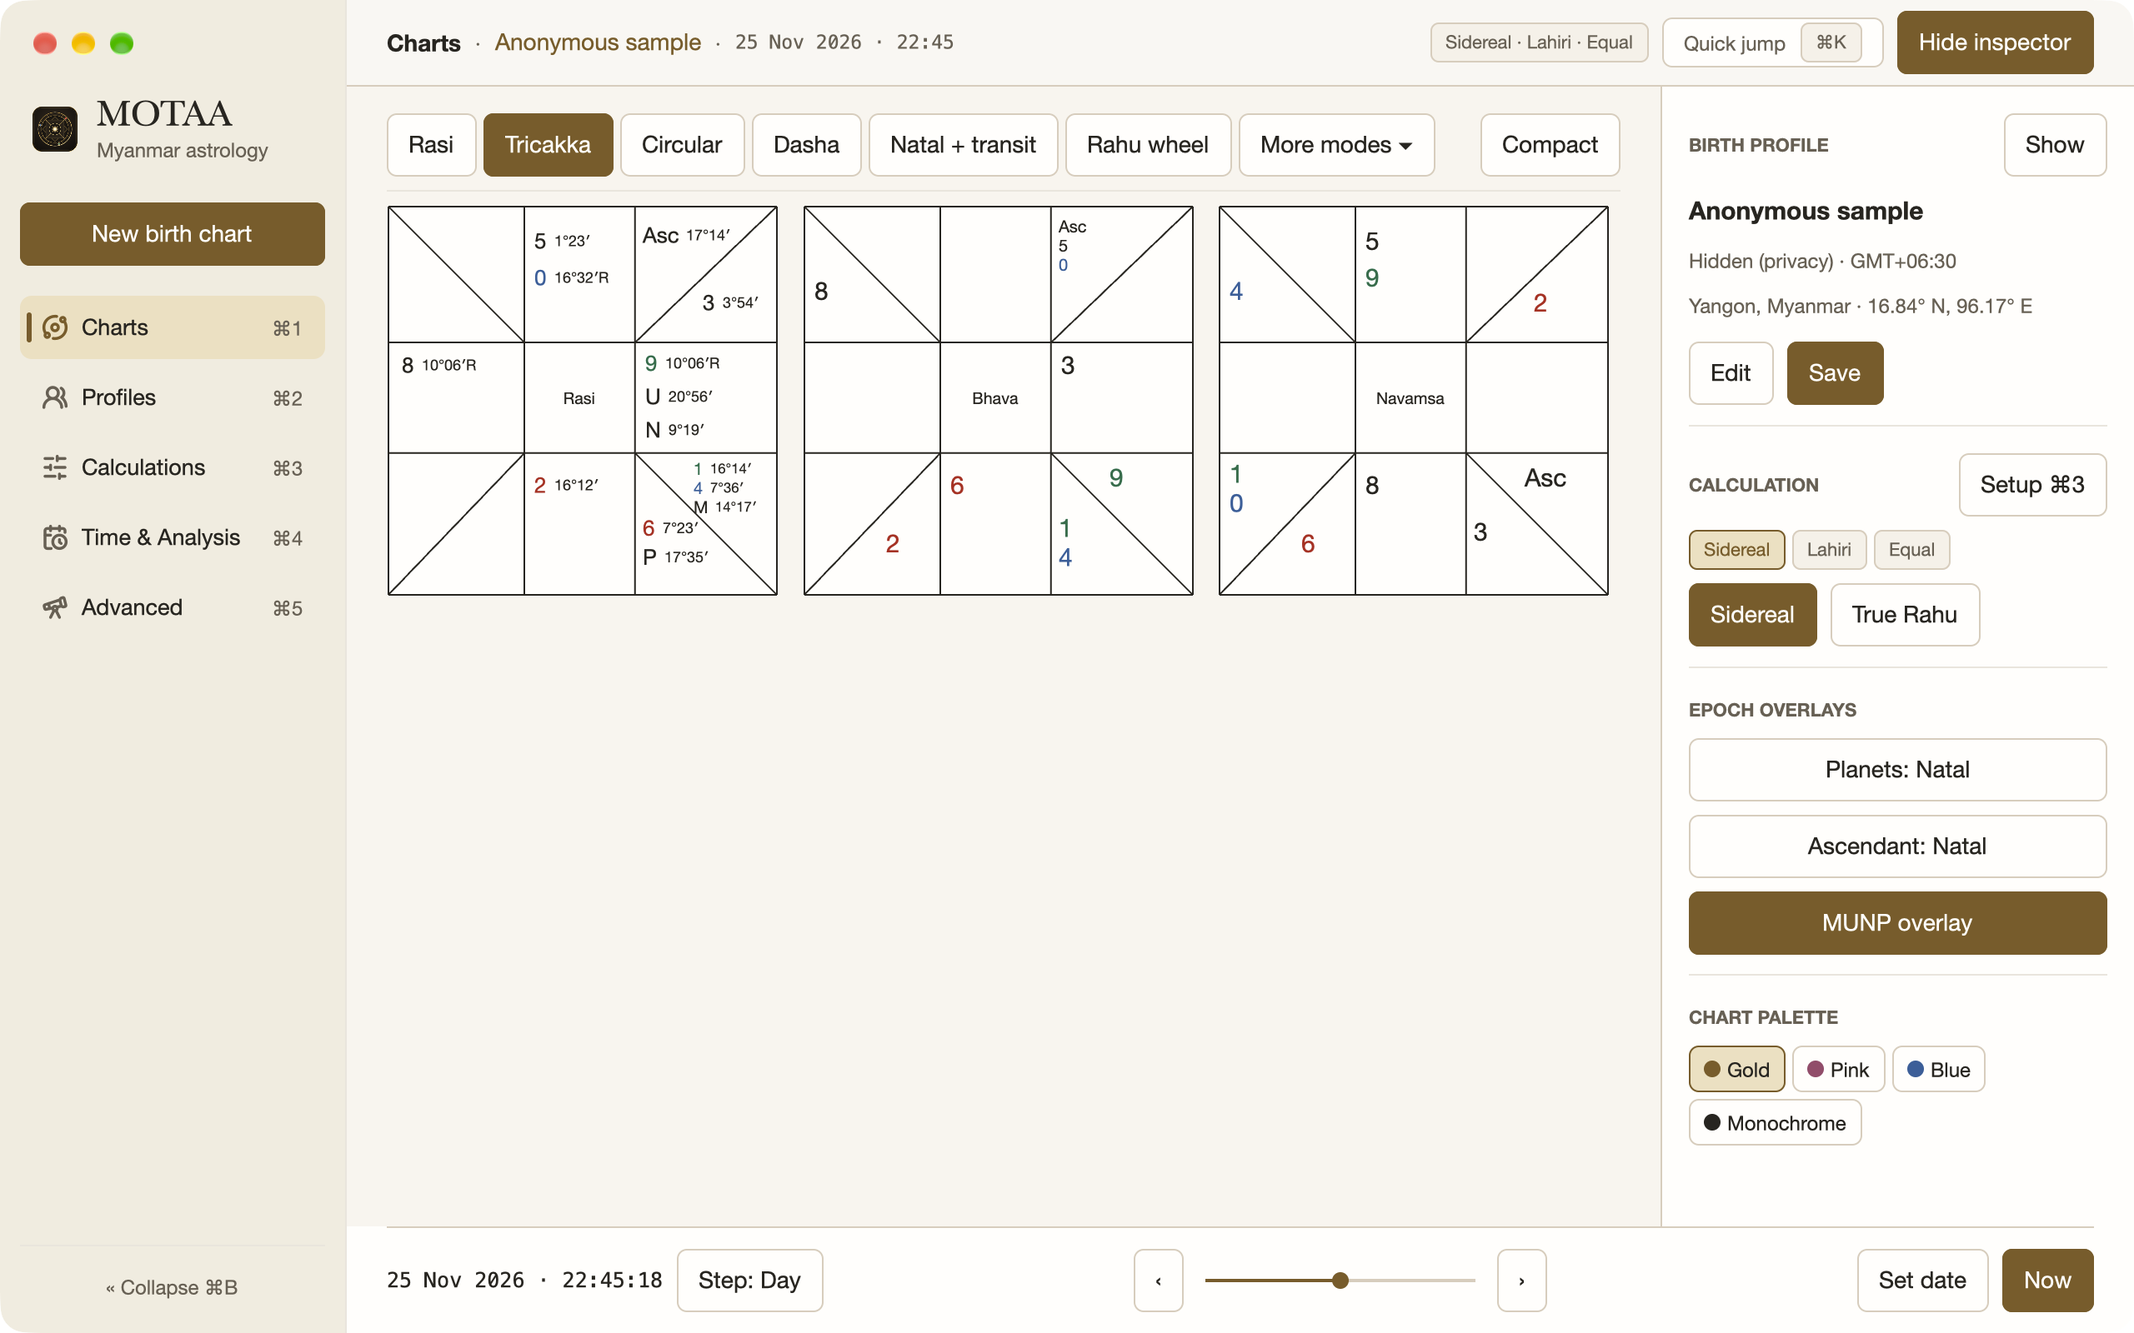
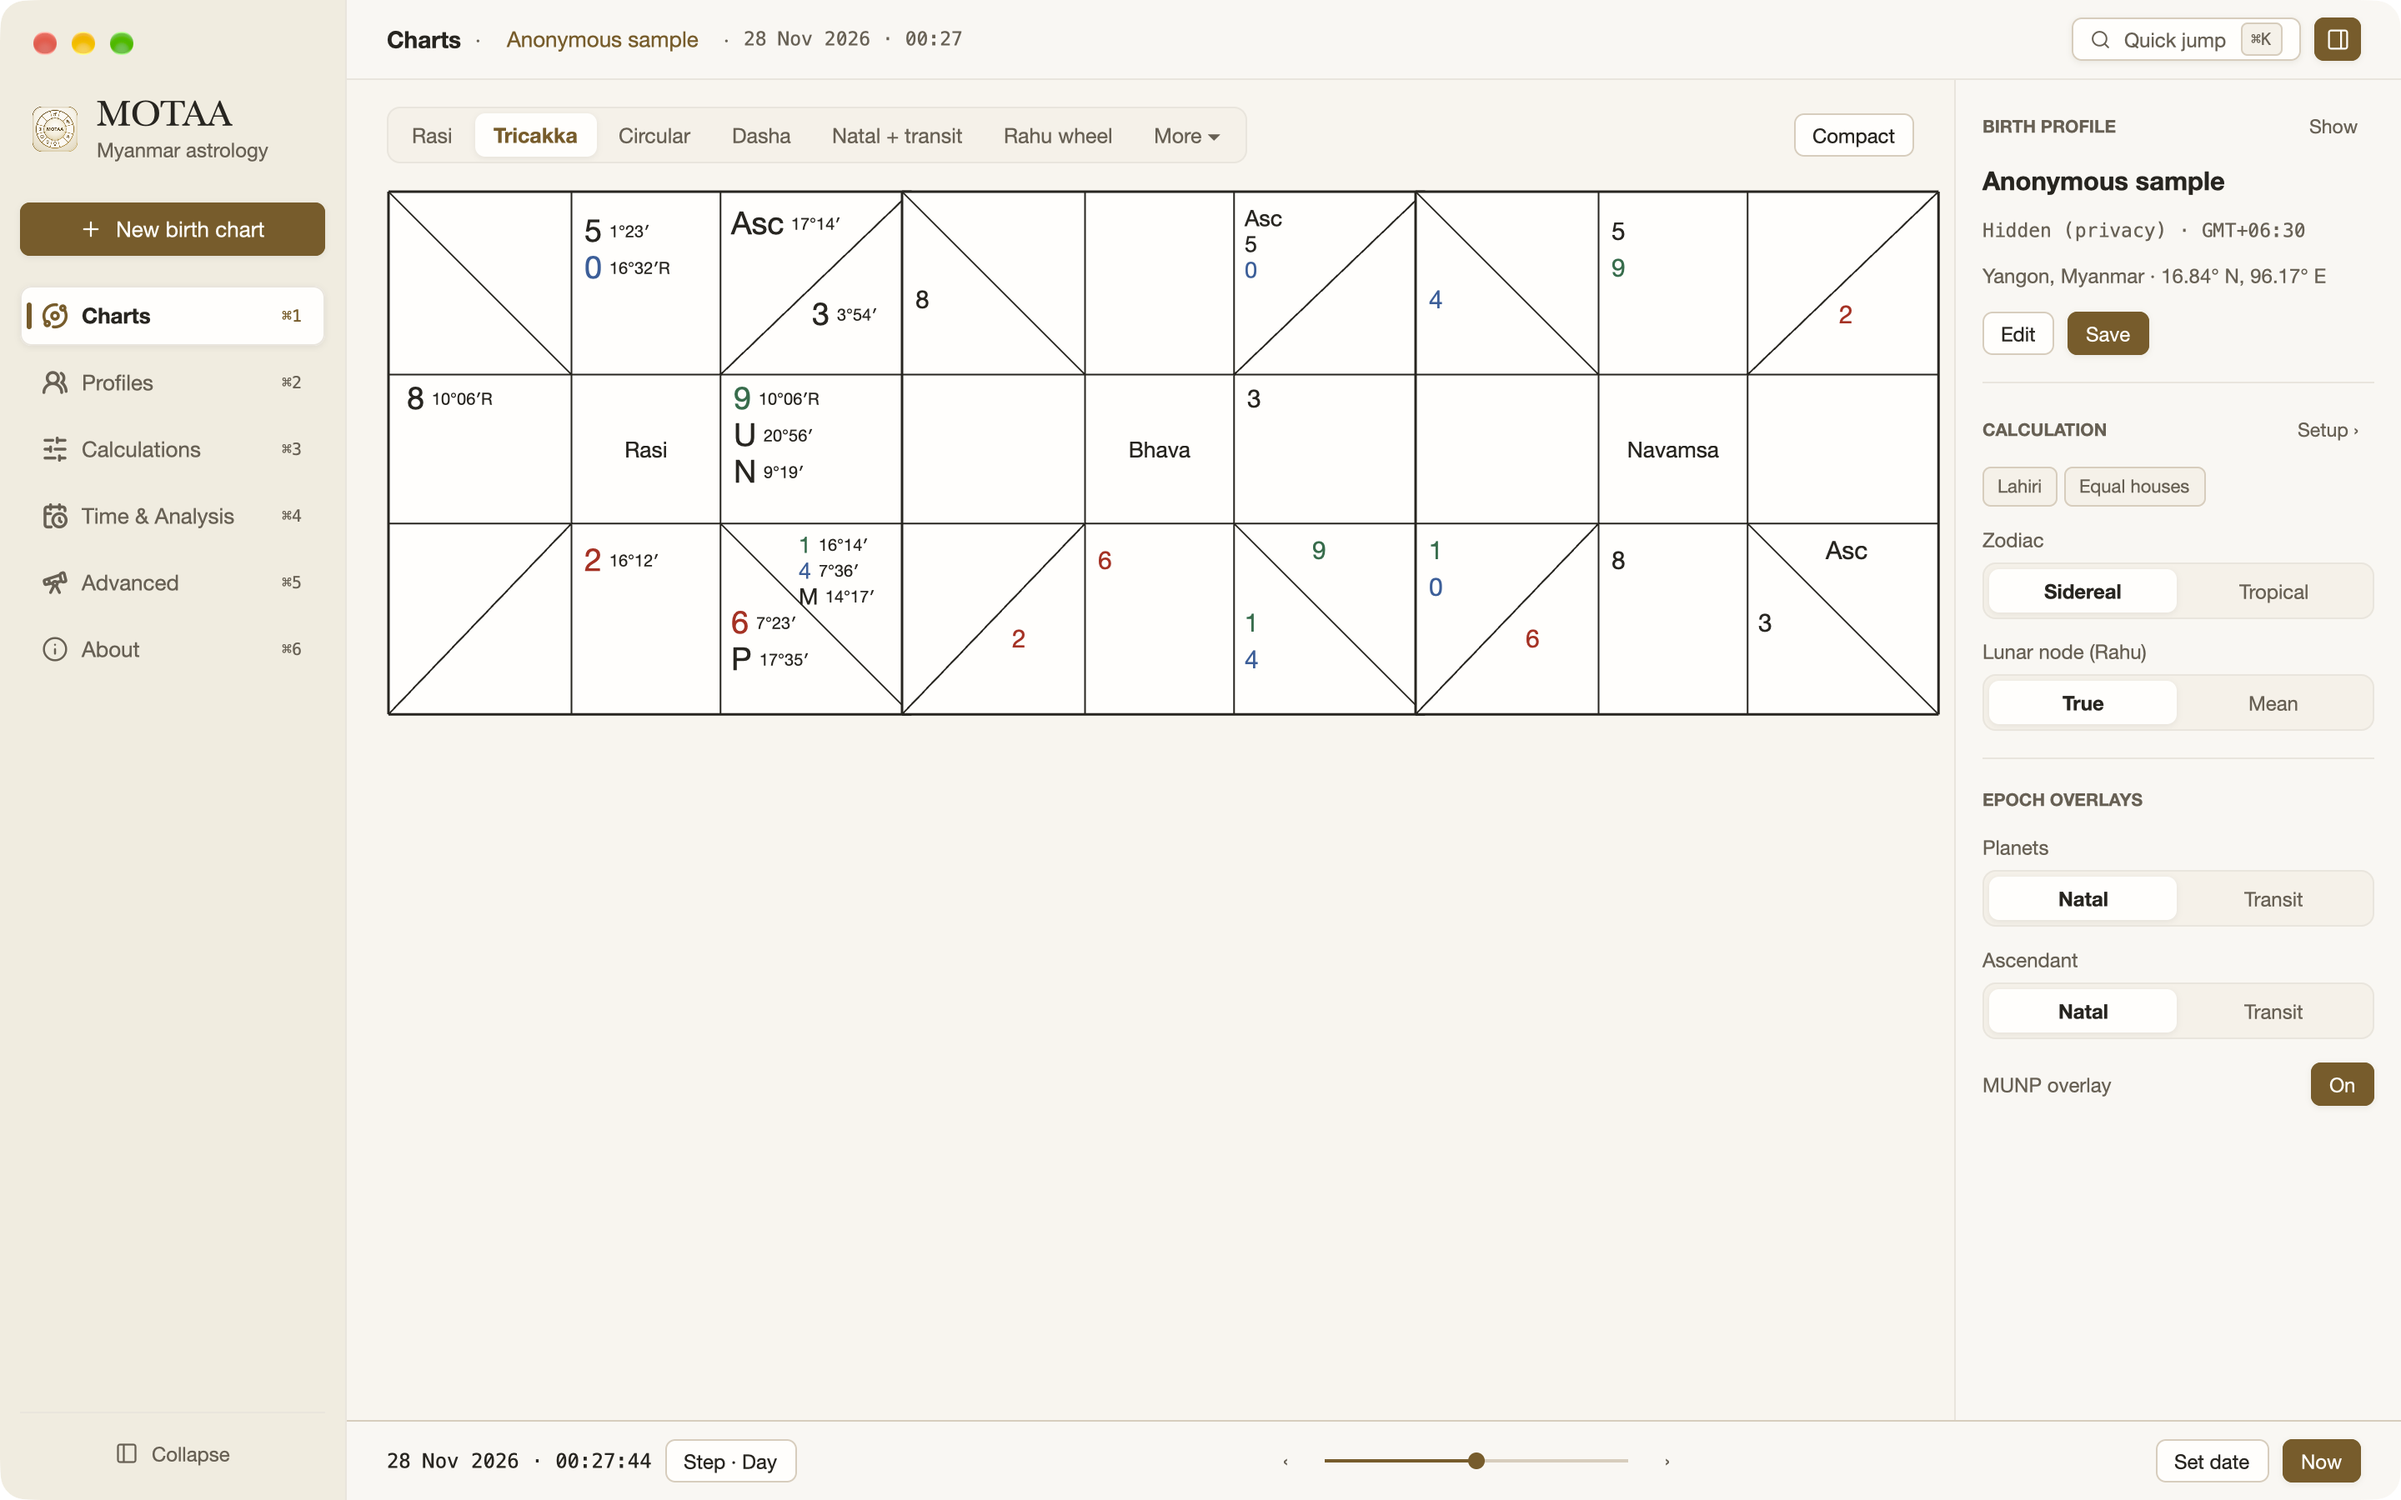
docs(screenshots): refresh app screenshots and add Windows 11 Store screenshots

diff --git a/site/index.html b/site/index.html
@@ -112,6 +112,13 @@
                 data-desc="Sixteen specialized analytical modules including Ashtakavarga, KP subdivisions, Divisional charts, Ephemeris calendar, and Eclipses.">
                 Advanced <span class="kbd">⌘5</span>
               </button>
+              <button type="button" class="workbook-tab" role="tab" aria-selected="false"
+                data-src="assets/07-about.png"
+                data-alt="MOTAA Desktop About and Credits page showing reverse-engineering origin and creator links"
+                data-title="About &amp; Credits"
+                data-desc="Reverse-engineering origin, credits to Numan MOTAA and AstrologerKoPaKhan, and quick-open links.">
+                About <span class="kbd">⌘6</span>
+              </button>
             </div>
             <span class="kbd" title="Open Quick Jump command palette inside MOTAA Desktop">Quick Jump ⌘K</span>
           </div>

diff --git a/src/main.rs b/src/main.rs
@@ -321,6 +321,13 @@ const RAIL_ICONS: [(&str, &[u8]); 6] = [
     ("info", include_bytes!("../assets/rail/info.svg")),
 ];
 
+fn macos_chrome() -> bool {
+    static MACOS_CHROME: OnceLock<bool> = OnceLock::new();
+    *MACOS_CHROME.get_or_init(|| {
+        cfg!(target_os = "macos") && !std::env::args().any(|arg| arg == "--windows-chrome")
+    })
+}
+
 fn app_icon() -> Arc<Image> {
     static ICON: OnceLock<Arc<Image>> = OnceLock::new();
     ICON.get_or_init(|| {
@@ -1396,7 +1403,7 @@ impl Render for DesktopRoot {
             .bg(rgb(RAIL))
             .px(px(if collapsed { 8. } else { 12. }))
             .pb_3()
-            .pt(px(if cfg!(target_os = "macos") { 56. } else { 16. }))
+            .pt(px(if macos_chrome() { 56. } else { 16. }))
             .border_r_1()
             .border_color(rgb(SUBTLE_LINE))
             .child(
@@ -1448,7 +1455,7 @@ impl Render for DesktopRoot {
             .child(div().h(px(10.)))
             .children(Workspace::ALL.into_iter().enumerate().map(|(idx, entry)| {
                 let selected = entry == route;
-                let shortcut_hint = if cfg!(target_os = "macos") {
+                let shortcut_hint = if macos_chrome() {
                     format!("⌘{}", idx + 1)
                 } else {
                     format!("^{}", idx + 1)
@@ -1759,7 +1766,7 @@ impl Render for DesktopRoot {
                                             .hover(|s| s.bg(rgb(SOFT)))
                                             .child(ui_icon("ui/search", 12.5, MUTED))
                                             .child(caption("Quick jump"))
-                                            .child(shortcut_keycap(if cfg!(target_os = "macos") {
+                                            .child(shortcut_keycap(if macos_chrome() {
                                                 "⌘K"
                                             } else {
                                                 "^K"
@@ -2168,22 +2175,19 @@ fn main() {
                 KeyBinding::new(&primary_keybinding("q"), Quit, None),
             ]);
             let window_size = if store_screenshots.is_some() {
-                size(px(1440.), px(900.))
+                if macos_chrome() {
+                    size(px(1440.), px(900.))
+                } else {
+                    size(px(1440.), px(868.))
+                }
             } else {
                 size(px(1280.), px(800.))
             };
             let bounds = Bounds::centered(None, window_size, cx);
-            #[cfg(target_os = "macos")]
             let titlebar = Some(gpui::TitlebarOptions {
                 title: Some("MOTAA Desktop".into()),
-                appears_transparent: true,
-                traffic_light_position: Some(gpui::point(px(20.), px(19.))),
-            });
-            #[cfg(not(target_os = "macos"))]
-            let titlebar = Some(gpui::TitlebarOptions {
-                title: Some("MOTAA Desktop".into()),
-                appears_transparent: false,
-                traffic_light_position: None,
+                appears_transparent: macos_chrome(),
+                traffic_light_position: macos_chrome().then(|| gpui::point(px(20.), px(19.))),
             });
             let window = cx
                 .open_window(

diff --git a/src/harness.rs b/src/harness.rs
@@ -717,6 +717,7 @@ pub(crate) fn run(
                 ("04-time-analysis", Workspace::Time),
                 ("05-profiles", Workspace::Profiles),
                 ("06-advanced-tools", Workspace::Advanced),
+                ("07-about", Workspace::About),
             ];
             for &(slug, route) in workspace_shots {
                 window

diff --git a/packaging/windows/STORE_SUBMISSION.md b/packaging/windows/STORE_SUBMISSION.md
@@ -48,6 +48,9 @@ To build locally on Windows:
 | `04-time-analysis.png` | Independent transit time and location navigator |
 | `05-profiles.png` | Saved birth profiles with backup and import |
 | `06-advanced-tools.png` | Advanced astrological and astronomical tools directory |
+| `07-about.png` | About & Credits page with origin and creator links |
+
+Pre-generated Windows-chrome Store screenshots (`2880×1800` PNG) are also saved locally in `packaging/windows/screenshots/`.
 
 > **Policy 10.1.1.3 Compliance**: Never upload macOS screenshots from `docs/screenshots/` to Microsoft Partner Center. Always upload the Windows-captured screenshots from the `windows-store-submission` CI/CD artifact.
 

diff --git a/README.md b/README.md
@@ -14,6 +14,8 @@ Special thanks to:
 - **Numan MOTAA**: [https://web.facebook.com/numan.motaa](https://web.facebook.com/numan.motaa)
 - **AstrologerKoPaKhan**: [https://web.facebook.com/AstrologerKoPaKhan](https://web.facebook.com/AstrologerKoPaKhan)
 
+![MOTAA Desktop About & Credits](docs/screenshots/07-about.png)
+
 ## Workspaces & Features
 
 - **Charts (`Cmd+1`)**: 12 chart modes including Rasi, Tricakka, Traditional aspects, Nakshatra traversal, LatLon, Western aspects, Natal + transit, Dasha periods, Circular chart (with 27-nakshatra detail view), Rahu wheel (27/28 divisions), Rasi strengths, and Rasi aspects.
